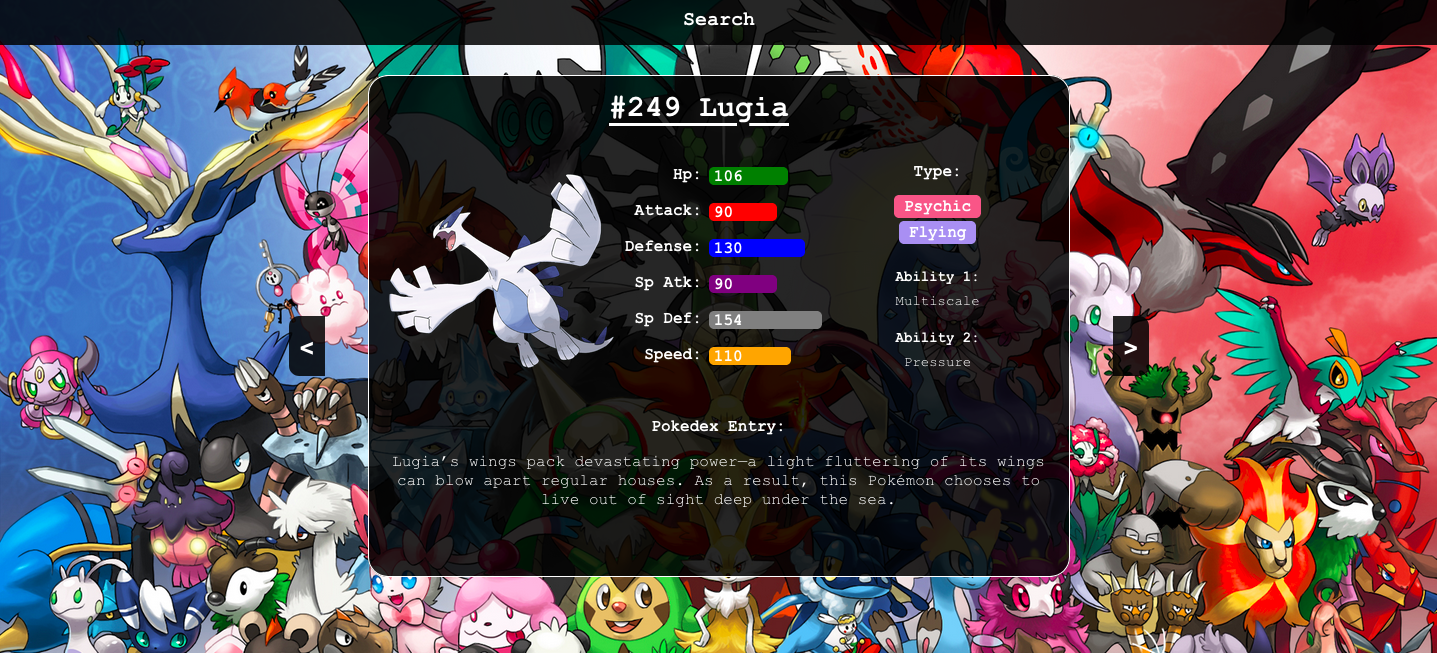
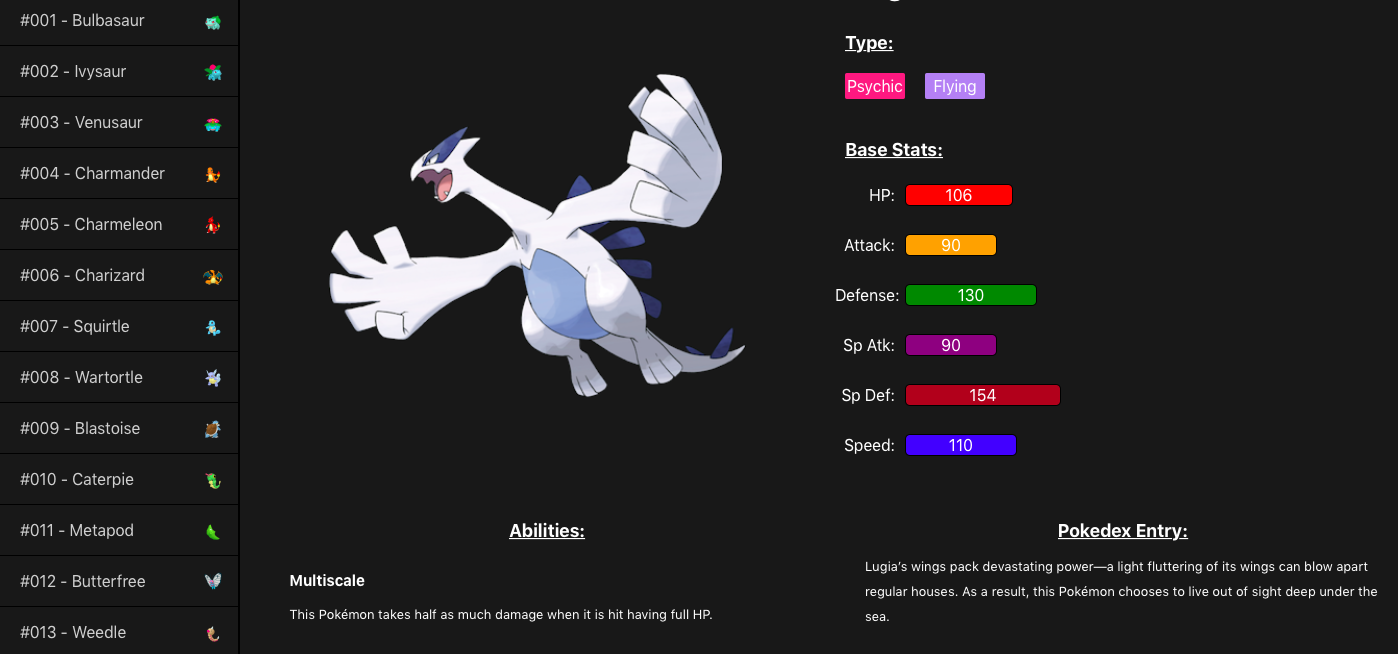
updated to pokedex v2

diff --git a/src/components/Showcase.js b/src/components/Showcase.js
@@ -86,12 +86,12 @@ const projects = [
     Description: "Randomly generated wordsearch game. Made using Canvas.",
   },
   {
-    src: "https://github.com/Deniro5/Pokedex",
-    link: "https://deniro5.github.io/Pokedex/",
+    src: "https://github.com/Deniro5/Pokedex2",
+    link: "https://deniro5.github.io/Pokedex2/",
     imgsrc: "imgs/pokedex.png",
     title: "Pokedex",
     Description:
-      "Pokedex App. Displays basic information about 800+ pokemon. Can search for specific pokemon using the search bar or navigate using the arrows. Made with the help of pokeapi API.",
+      "Pokedex App made with Typescript and React.  Displays basic information about 800+ pokemon. Can search for specific pokemon using the search bar or navigate using the arrows. Made with the help of pokeapi API.",
   },
   {
     src: "https://github.com/Deniro5/Gram",
